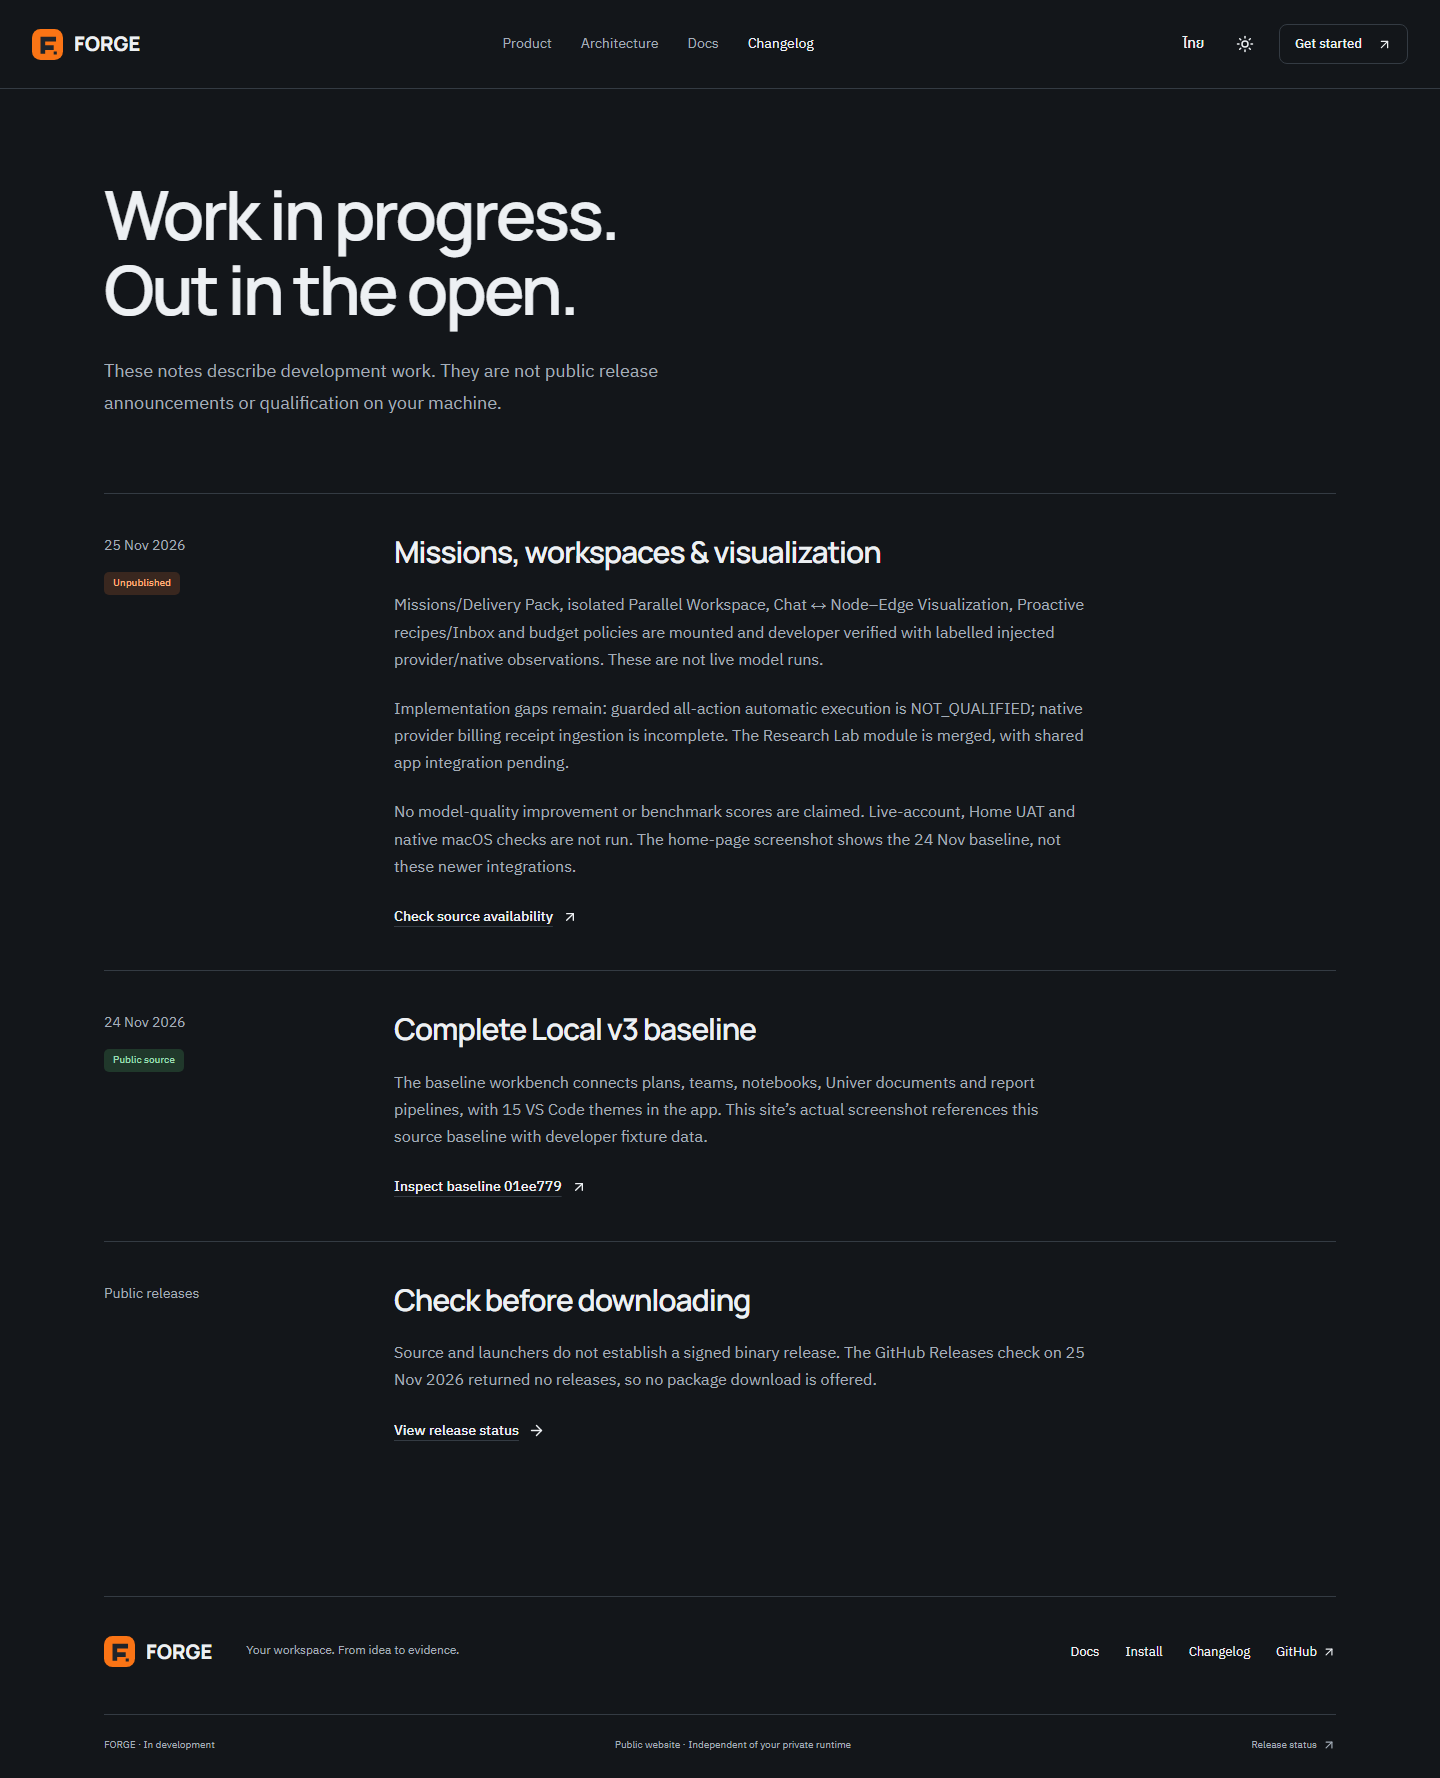
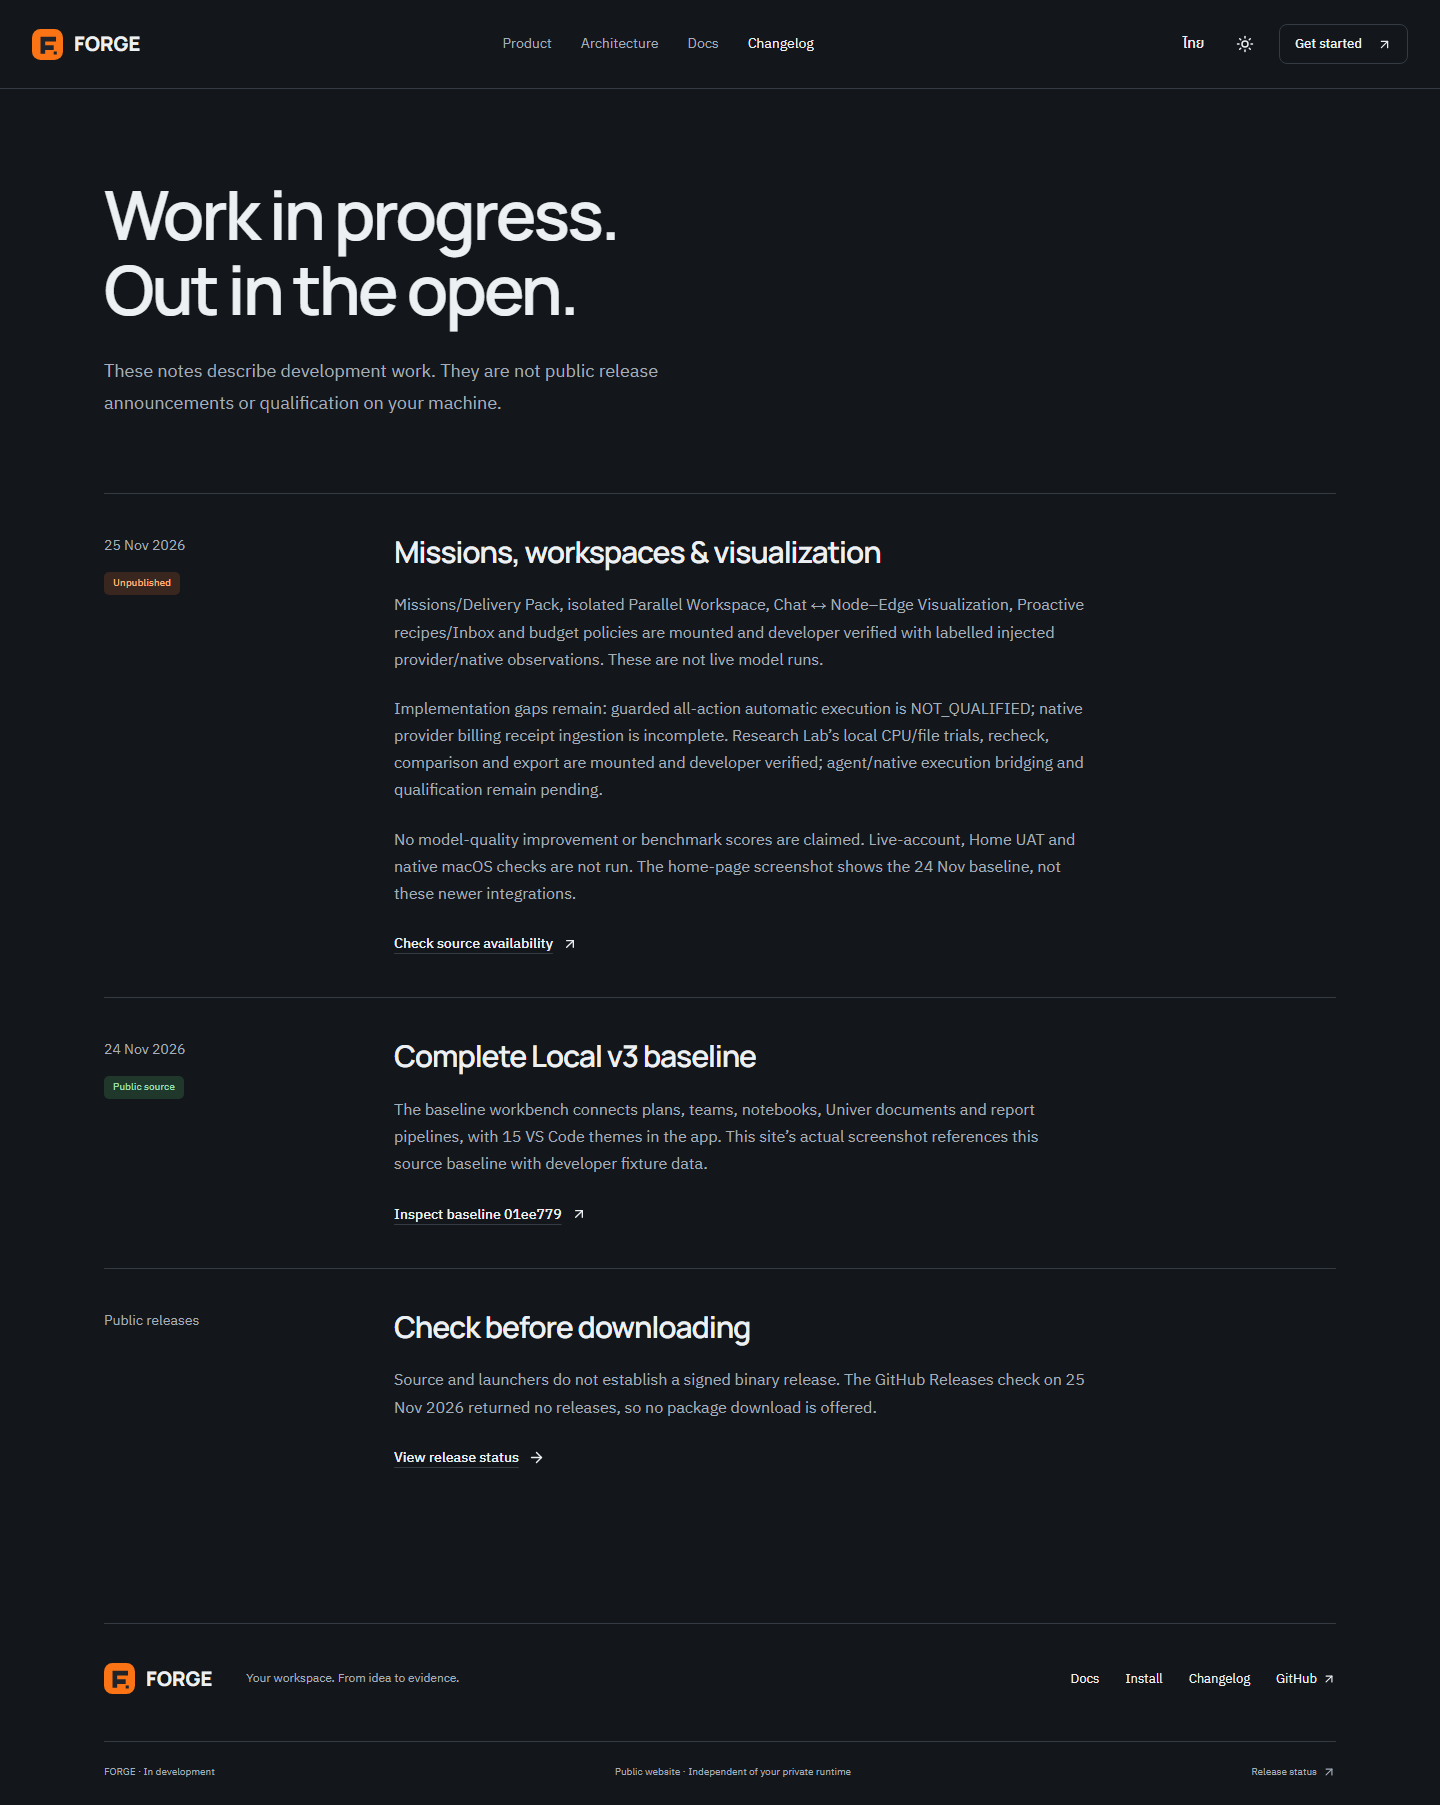
docs(website): qualify mounted local Research flow

diff --git a/apps/website/src/App.tsx b/apps/website/src/App.tsx
@@ -86,7 +86,7 @@ const capabilities = [
   ['Chat ↔ Visualization','local','สลับแชตกลุ่มกับกราฟ agent และ run ตรวจหลักฐานและใช้ปุ่มควบคุมเดิม โดย T3 เป็นเจ้าของการรันเพียงรายเดียว','Switch between group chat and the agent/run graph. Inspect evidence and use existing controls; T3 remains the sole execution owner.','app/web/src/AgentWorkspace.jsx'],
   ['Proactive recipes & Inbox','local','ตั้งสูตรงานและตรวจข้อยกเว้นใน Inbox ได้ การรันอัตโนมัติยังถูกบล็อกจนกว่าจะยืนยันการควบคุมทุก action','Configure recipes and review exceptions in Inbox. Automatic execution stays blocked until every action is proven guarded.','app/proactive/index.mjs'],
   ['Budget policies','local','กำหนดวงเงินและคงยอดสำรองเมื่อ usage ไม่ชัดเจน; การรับใบเสร็จ billing จาก native provider ยังไม่ครบ','Set budgets and retain reservations when usage is unknown; native provider billing receipt ingestion is incomplete.','app/budgets/index.mjs'],
-  ['Research Lab','experimental','โมดูลประเมินแบบทำซ้ำรวมเข้า code แล้ว แต่การเชื่อมกับแอปหลักยังไม่ครบ ยังไม่มีคะแนน benchmark สาธารณะ','The reproducible evaluation module is merged; shared app integration is pending. No public benchmark scores are claimed.','app/research/index.mjs'],
+  ['Research Lab','local','ทดสอบ CPU/ไฟล์ในเครื่อง ตรวจซ้ำ เปรียบเทียบและส่งออกผ่านแอปได้ นักพัฒนาตรวจแล้ว; การเชื่อม agent/native และการรับรองยังไม่ครบ ไม่มีผลทดสอบโมเดลหรือคะแนน benchmark','Local CPU/file trials, recheck, comparison and export are mounted and developer verified. Agent/native execution bridging and qualification remain pending; no model trials or benchmark scores.','app/research/index.mjs'],
   ['Multi-Agent Teams','experimental','ทีมประจำและผู้ช่วยตามงาน พร้อมบทบาทและขอบเขตงาน; การทำงานพร้อมกันขึ้นอยู่กับ harness ที่เชื่อมต่อ','Resident bots and task-scoped helpers with roles and ownership; concurrency depends on connected harnesses.','app/web/src/work.jsx'],
   ['Adaptive Harness','experimental','นโยบายเลือกทักษะและบริบท; ยังไม่อ้างว่าเรียนรู้หรือปรับปรุงตัวเองได้โดยอัตโนมัติ','Capability-based routing and context policies; autonomous learned improvement is not claimed.','app/context/index.mjs'],
   ['AG-UI','experimental','สะพานเหตุการณ์ T3 สู่หน้าจอ; ต้องตรวจ lifecycle และ recovery ตาม provider จริง','T3 lifecycle projection into the UI; end-to-end lifecycle and recovery require provider qualification.','app/protocol/controller.mjs'],
@@ -160,7 +160,7 @@ function Docs({lang,t}:{lang:Lang;t:T}) {
 function Changelog({lang,t}:{lang:Lang;t:T}) {
   return <><div className="page-heading"><h1>Work in progress.<br/>Out in the open.</h1><p>{t('บันทึกนี้สรุปสถานะการพัฒนา ไม่ใช่ประกาศ public release หรือการรับรองผลบนเครื่องของคุณ','These notes describe development work. They are not public release announcements or qualification on your machine.')}</p></div>
     <div className="changelog">
-      <article><div><time dateTime="2026-11-25">25 Nov 2026</time><span className="status experimental">{t('ยังไม่เผยแพร่','Unpublished')}</span></div><section><h2>Missions, workspaces & visualization</h2><p>{t('Missions/Delivery Pack, Parallel Workspace แบบแยก Git, Chat ↔ Node–Edge Visualization, Proactive recipes/Inbox และนโยบายงบประมาณเชื่อมกับแอปแล้วและผ่านการตรวจของนักพัฒนา โดยใช้ข้อมูล provider/native ที่ป้อนเพื่อการทดสอบและติดป้ายกำกับ ไม่ใช่การรันโมเดลจริง','Missions/Delivery Pack, isolated Parallel Workspace, Chat ↔ Node–Edge Visualization, Proactive recipes/Inbox and budget policies are mounted and developer verified with labelled injected provider/native observations. These are not live model runs.')}</p><p>{t('ยังมีงาน implementation: การบังคับควบคุมทุก action ของการรันอัตโนมัติยังเป็น NOT_QUALIFIED การรับใบเสร็จ billing จาก native provider ยังไม่ครบ ส่วน Research Lab รวมโมดูลแล้วแต่ยังต้องเชื่อมกับแอปหลัก','Implementation gaps remain: guarded all-action automatic execution is NOT_QUALIFIED; native provider billing receipt ingestion is incomplete. The Research Lab module is merged, with shared app integration pending.')}</p><p>{t('ไม่ได้อ้างว่าโมเดลทำงานดีขึ้นหรือมีคะแนน benchmark และยังไม่ได้ทดสอบ live account, Home UAT หรือ macOS native ภาพในหน้าหลักเป็นรุ่นพื้นฐาน 24 พ.ย. ไม่ใช่หลักฐานของ integration ใหม่','No model-quality improvement or benchmark scores are claimed. Live-account, Home UAT and native macOS checks are not run. The home-page screenshot shows the 24 Nov baseline, not these newer integrations.')}</p><External to={href(lang,'github')}>{t('ตรวจสถานะ source','Check source availability')}</External></section></article>
+      <article><div><time dateTime="2026-11-25">25 Nov 2026</time><span className="status experimental">{t('ยังไม่เผยแพร่','Unpublished')}</span></div><section><h2>Missions, workspaces & visualization</h2><p>{t('Missions/Delivery Pack, Parallel Workspace แบบแยก Git, Chat ↔ Node–Edge Visualization, Proactive recipes/Inbox และนโยบายงบประมาณเชื่อมกับแอปแล้วและผ่านการตรวจของนักพัฒนา โดยใช้ข้อมูล provider/native ที่ป้อนเพื่อการทดสอบและติดป้ายกำกับ ไม่ใช่การรันโมเดลจริง','Missions/Delivery Pack, isolated Parallel Workspace, Chat ↔ Node–Edge Visualization, Proactive recipes/Inbox and budget policies are mounted and developer verified with labelled injected provider/native observations. These are not live model runs.')}</p><p>{t('ยังมีงาน implementation: การบังคับควบคุมทุก action ของการรันอัตโนมัติยังเป็น NOT_QUALIFIED การรับใบเสร็จ billing จาก native provider ยังไม่ครบ ส่วน Research Lab ทดสอบ CPU/ไฟล์ ตรวจซ้ำ เปรียบเทียบและส่งออกผ่านแอปได้และนักพัฒนาตรวจแล้ว แต่การเชื่อม agent/native และการรับรองยังไม่ครบ','Implementation gaps remain: guarded all-action automatic execution is NOT_QUALIFIED; native provider billing receipt ingestion is incomplete. Research Lab’s local CPU/file trials, recheck, comparison and export are mounted and developer verified; agent/native execution bridging and qualification remain pending.')}</p><p>{t('ไม่ได้อ้างว่าโมเดลทำงานดีขึ้นหรือมีคะแนน benchmark และยังไม่ได้ทดสอบ live account, Home UAT หรือ macOS native ภาพในหน้าหลักเป็นรุ่นพื้นฐาน 24 พ.ย. ไม่ใช่หลักฐานของ integration ใหม่','No model-quality improvement or benchmark scores are claimed. Live-account, Home UAT and native macOS checks are not run. The home-page screenshot shows the 24 Nov baseline, not these newer integrations.')}</p><External to={href(lang,'github')}>{t('ตรวจสถานะ source','Check source availability')}</External></section></article>
       <article><div><time dateTime="2026-11-24">24 Nov 2026</time><span className="status local">{t('Source เป็นสาธารณะ','Public source')}</span></div><section><h2>Complete Local v3 baseline</h2><p>{t('พื้นที่ทำงานพื้นฐานเชื่อมแผน ทีม notebook เอกสาร Univer และ report pipeline พร้อมธีม VS Code 15 แบบในแอป ภาพจริงบนเว็บนี้อ้างอิง source รุ่นนี้พร้อมข้อมูลทดสอบของนักพัฒนา','The baseline workbench connects plans, teams, notebooks, Univer documents and report pipelines, with 15 VS Code themes in the app. This site’s actual screenshot references this source baseline with developer fixture data.')}</p><External to={publicBaseline}>{t('ดู source พื้นฐาน 01ee779','Inspect baseline 01ee779')}</External></section></article>
       <article><div><span>Public releases</span></div><section><h2>{t('ตรวจสอบก่อนดาวน์โหลด','Check before downloading')}</h2><p>{t('การมี source และ launcher ไม่เท่ากับการมี signed binary release ข้อมูล GitHub Releases ที่ตรวจวันที่ 25 พ.ย. 2026 ยังว่าง จึงไม่มีปุ่มดาวน์โหลดแพ็กเกจ','Source and launchers do not establish a signed binary release. The GitHub Releases check on 25 Nov 2026 returned no releases, so no package download is offered.')}</p><a className="text-link" href={href(lang,'download')}>{t('ดูสถานะ release','View release status')}<Arrow/></a></section></article>
     </div></>;

diff --git a/apps/website/docs/REVIEW.md b/apps/website/docs/REVIEW.md
@@ -82,4 +82,7 @@ Portable final report and six actual website review captures:
 `evidence/publication-20261125/`. They are review evidence, not new core-product
 screenshots or GIFs. The final root README/media task remains lead-owned.
 Implementation gaps (all-action native enforcement, billing receipts and Research
-shared integration) remain separate from live-provider/account checks and Home UAT.
+agent/native execution bridging and qualification) remain separate from live-provider/
+account checks and Home UAT. A subsequent lead update confirmed the local Research
+CPU/file/recheck/compare/export flow is mounted and developer verified; its row and
+matching changelog qualification were updated without claiming model trials.

diff --git a/apps/website/README.md b/apps/website/README.md
@@ -74,7 +74,9 @@ anonymous check of those recorded revisions without changing build data.
 
 The capability inventory and changelog separately describe developer verification
 with labelled injected provider/native observations, native automatic-execution
-qualification and billing implementation gaps, and pending Research integration.
+qualification and billing implementation gaps, and pending Research agent/native
+execution bridging and qualification. The local CPU/file Research flow is mounted
+and developer verified.
 They claim no live model quality improvement, benchmark score or Home UAT result.
 Update claims, evidence and source availability together only after the lead
 actually publishes an authorized revision.
